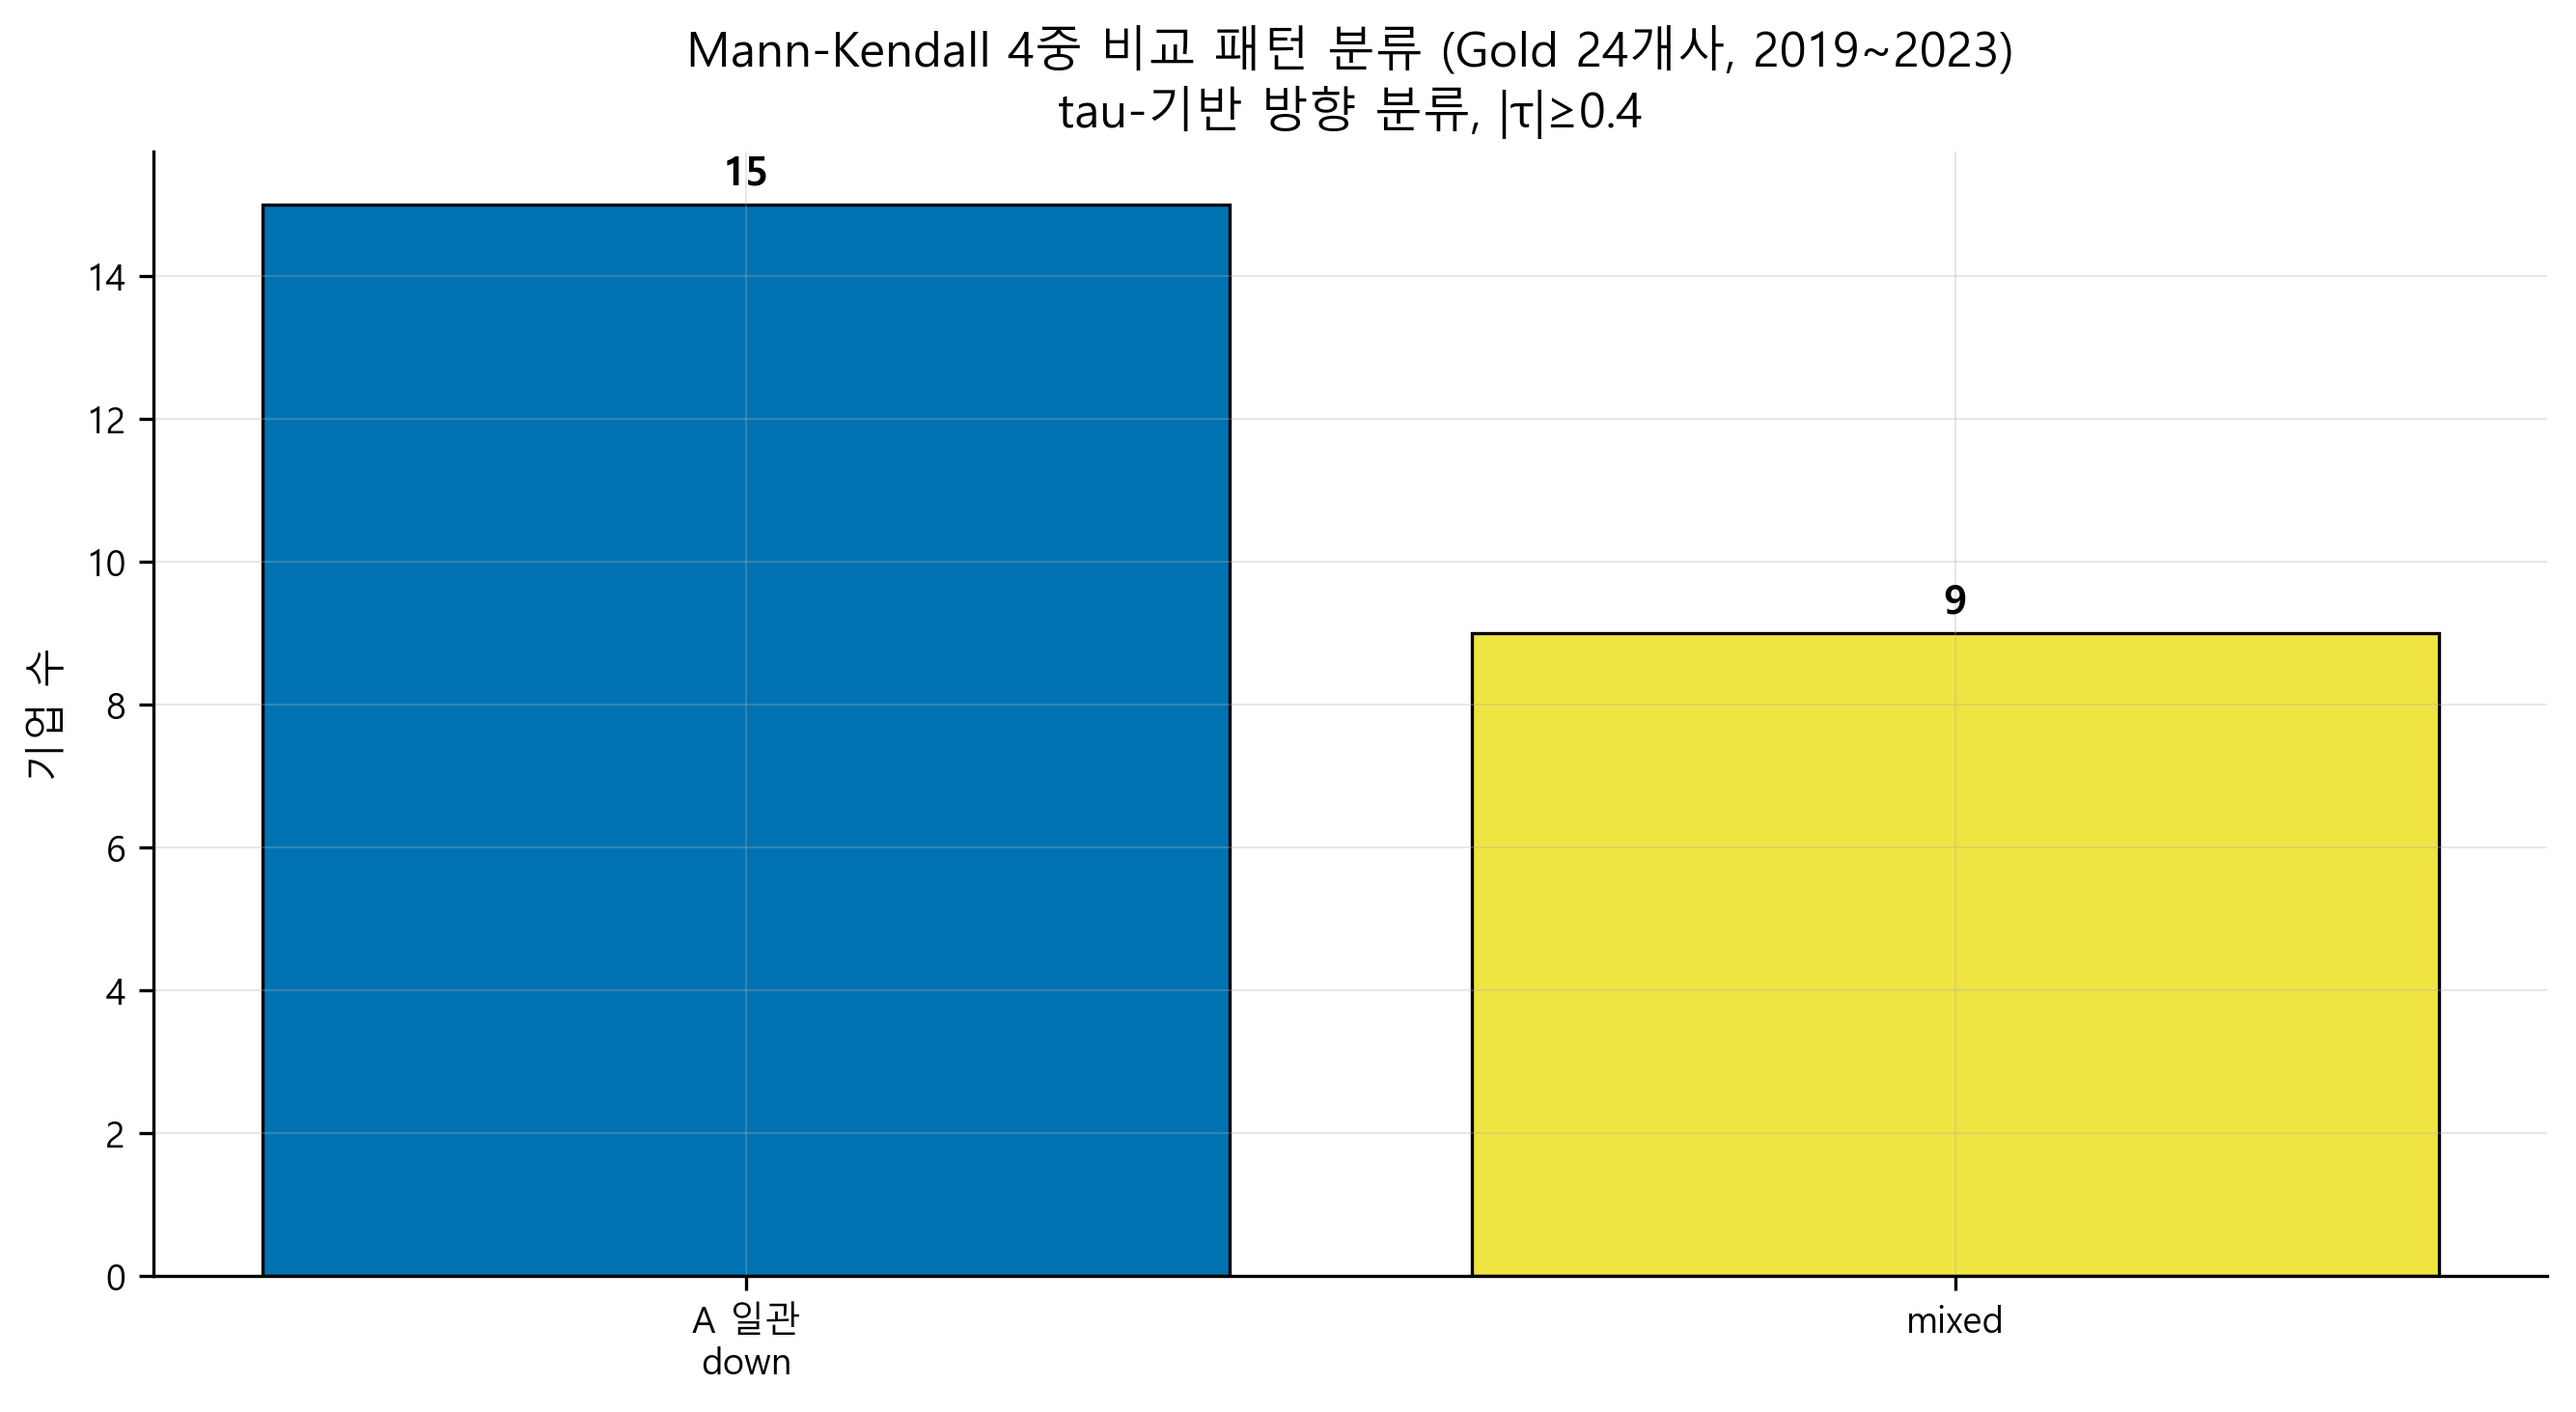
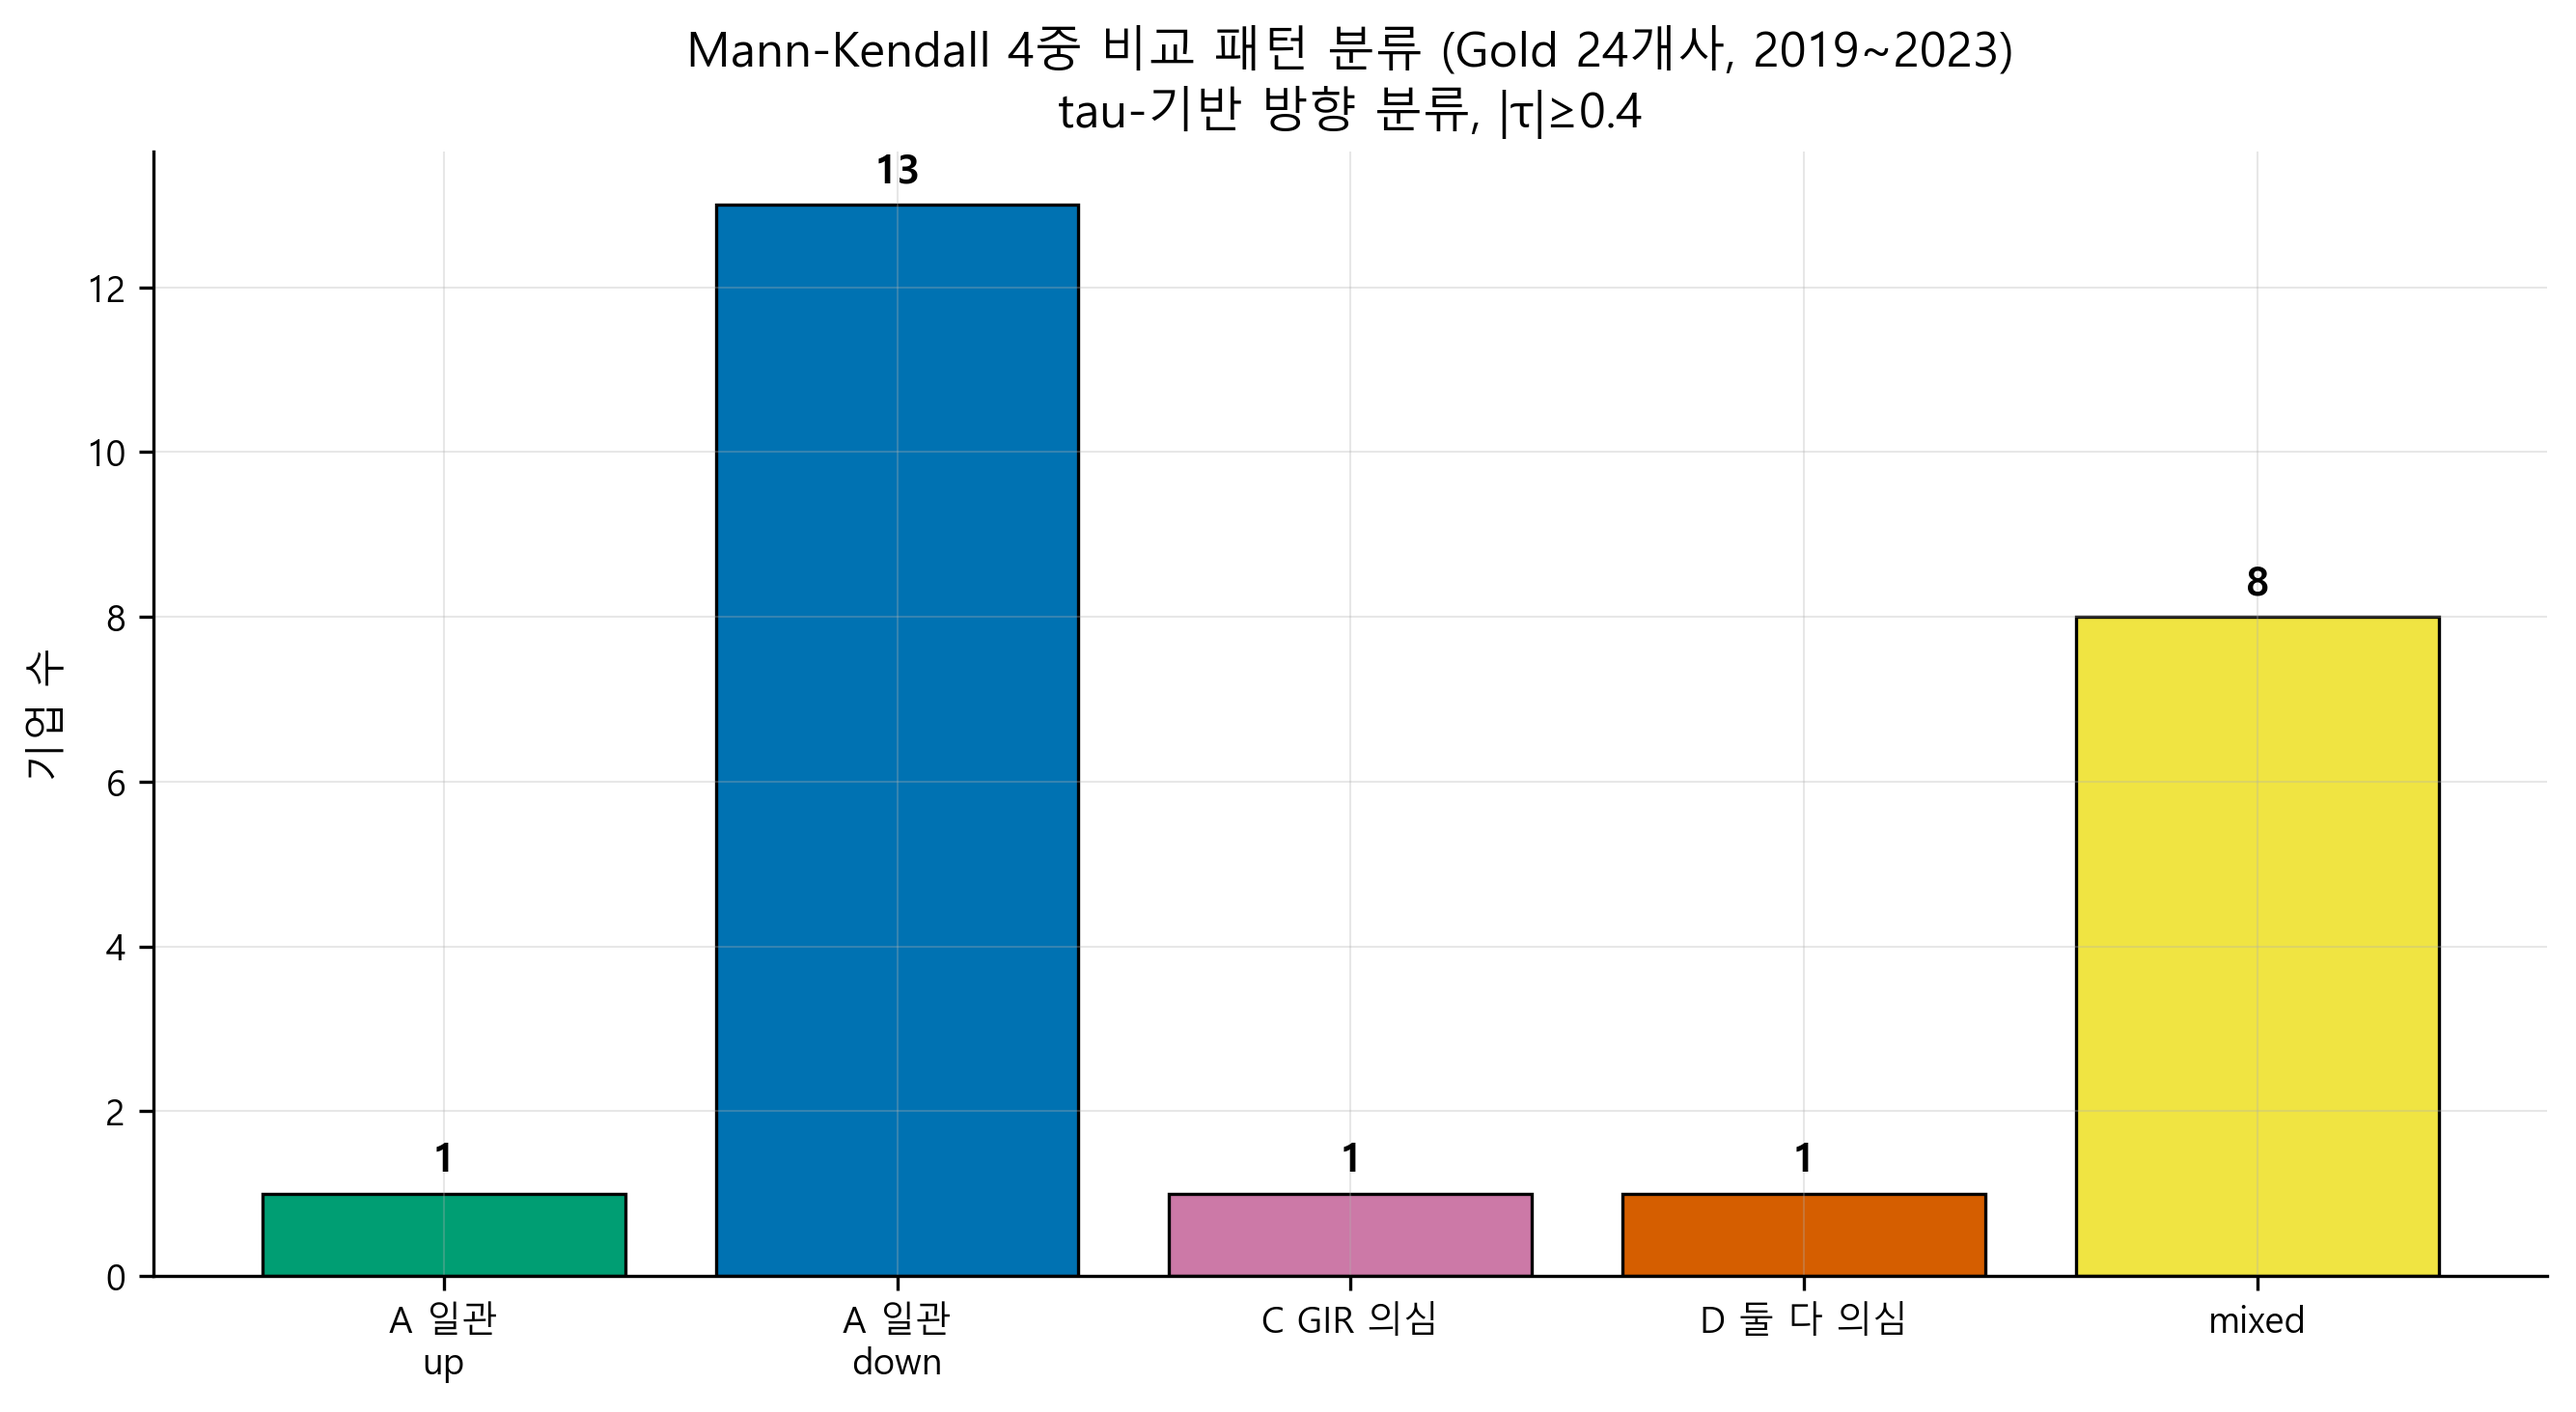
feat: ESG parser complete — 70 PDFs 99% extraction + real pattern findings + panel regression
ESG parser results (71 PDFs input, 70 parsed):
- Scope 1 extraction: 99% success (HIGH 16, MEDIUM 48, LOW 7)
- Fields: Scope 1/2/3, 조직경계, 제3자 검증, 보고기준
- data/interim/esg_reports_parsed.csv (9KB)

Integrated panel v2 (ESG merged):
- 157 rows × 51 cols
- ESG coverage: 73/157 (46%)
- GIR 100%, satellite/ODIAC/ASOS 73% (2019-2023 subset)

Mann-Kendall pattern findings (tau-based, |τ|≥0.4):
- A_consistent_up: 1 (네이버)
- A_consistent_down: 13 (두산, 한화, 현대차, 롯데케미칼, KEPCO, KT, 삼성생명, LGD 등)
- C_gir_suspect: 1 (현대모비스 GIR↓ ESG↑)
- **D_both_suspect: 1 (삼성전자 GIR/ESG↑ but sat/ODIAC↓)** ← 가장 주목할 발견
- mixed: 8 (포스코 GIR↑ sat↓↓ 포함)

Fixed-effects panel regression (N=67, 16 firms):
- ln_gir: -2.30 (p<0.001) — 대기업일수록 괴리율 낮음
- in_kssb_30: -64.67 (p<0.001) — KSSB 대상 평균 -65%p 낮음
- R² within: 0.007 (FE absorbs most variance)
- F-poolability p=0.66 OK

diff --git a/src/analysis/build_integrated_panel.py b/src/analysis/build_integrated_panel.py
@@ -117,10 +117,15 @@ def load_esg_parsed() -> pd.DataFrame:
     path = INT / "esg_reports_parsed.csv"
     if not path.exists():
         return pd.DataFrame(columns=["stock_code", "year"])
-    df = pd.read_csv(path, dtype={"stock_code": str})
+    df = pd.read_csv(path)
     if df.empty:
         return df
-    df["stock_code"] = df["stock_code"].str.zfill(6)
+    # Parser's 'corp_code' column is actually the stock_code folder name
+    if "corp_code" in df.columns and "stock_code" not in df.columns:
+        df = df.rename(columns={"corp_code": "stock_code"})
+    df["stock_code"] = df["stock_code"].astype(str).str.zfill(6)
+    # Filter to HIGH/MEDIUM confidence; LOW noted but not used for merge
+    df = df[df["parse_success"] == True]
     return df
 
 
@@ -175,18 +180,23 @@ def build() -> pd.DataFrame:
     # --- Merge ESG parsed by stock_code × year ---
     if not esg.empty:
         esg_keep = ["stock_code", "year"]
-        for c in ["scope1_tco2eq", "scope1_confidence", "scope2_location",
-                  "scope2_market", "scope3_total", "assurance_provider",
-                  "assurance_standard", "assurance_level", "reporting_standard",
-                  "organizational_boundary"]:
+        col_map = {
+            "scope1_tco2eq": "esg_scope1_tco2eq",
+            "scope1_confidence": "esg_scope1_confidence",
+            "scope2_location_tco2eq": "esg_scope2_location",
+            "scope2_market_tco2eq": "esg_scope2_market",
+            "scope3_present": "esg_scope3_present",
+            "assurance_provider": "assurance_provider",
+            "assurance_standard": "assurance_standard",
+            "assurance_level": "assurance_level",
+            "reporting_standard": "reporting_standard",
+            "organizational_boundary": "organizational_boundary",
+            "third_party_assurance": "third_party_assurance",
+        }
+        for c in col_map.keys():
             if c in esg.columns:
                 esg_keep.append(c)
-        esg_slim = esg[esg_keep].rename(columns={
-            "scope1_tco2eq": "esg_scope1_tco2eq",
-            "scope2_location": "esg_scope2_location",
-            "scope2_market": "esg_scope2_market",
-            "scope3_total": "esg_scope3_total",
-        })
+        esg_slim = esg[esg_keep].rename(columns=col_map)
         gir_gold = gir_gold.merge(esg_slim, on=["stock_code", "year"], how="left")
 
     # --- Compute discrepancy metrics ---

diff --git a/src/analysis/panel_regression.py b/src/analysis/panel_regression.py
@@ -45,21 +45,35 @@ def main() -> None:
     df = df.set_index(["stock_code", "year"])
     df["year_dummy"] = df.index.get_level_values("year")
 
-    # Formula
-    X = df[["ln_gir", "in_kssb_30"]].astype(float)
-    X = X.dropna()
-    y = df.loc[X.index, "disc_pct"].dropna()
-    X = X.loc[y.index]
+    # Align X and y — drop any row with NaN in any required col
+    needed = ["ln_gir", "in_kssb_30", "disc_pct"]
+    data = df[needed].dropna()
+    # Need at least 2 years per firm for entity effects
+    firm_counts = data.groupby(level=0).size()
+    valid_firms = firm_counts[firm_counts >= 2].index
+    data = data[data.index.get_level_values(0).isin(valid_firms)]
 
+    y = data["disc_pct"]
+    X = data[["ln_gir", "in_kssb_30"]].astype(float)
     print(f"Regression N: {len(y)}, firms: {y.index.get_level_values(0).nunique()}")
     try:
-        mod = PanelOLS(y, X, entity_effects=True, time_effects=True)
+        mod = PanelOLS(y, X, entity_effects=True, time_effects=True,
+                       drop_absorbed=True)
         res = mod.fit(cov_type="clustered", cluster_entity=True)
         print(res.summary)
         with open(OUT / "regression_results.txt", "w", encoding="utf-8") as f:
             f.write(str(res.summary))
     except Exception as e:
         print(f"[err] regression failed: {e}")
+        # Fallback: simple OLS without entity effects
+        import statsmodels.api as sm
+        Xc = sm.add_constant(X.reset_index(drop=True))
+        y2 = y.reset_index(drop=True)
+        res = sm.OLS(y2, Xc).fit(cov_type="HC3")
+        print("\n=== Fallback OLS (no FE) ===")
+        print(res.summary())
+        with open(OUT / "regression_results.txt", "w", encoding="utf-8") as f:
+            f.write(str(res.summary()))
 
 
 if __name__ == "__main__":

diff --git a/report/gold24_remaining_manual.md b/report/gold24_remaining_manual.md
@@ -2,7 +2,9 @@
 
 **현황 (2026-04-23)**: 70 PDFs 자동 다운로드 완료 (Gold 23개사 중 17개사 100%, 6개사 부분)
 
-## 🔴 수동 수집 필요 10개 PDF (6개사)
+## 🔴 수동 수집 필요 **13개 PDF** (6개사)
+
+**기업별 필요 개수**: 한화 3 + 두산 4 + 대한항공 2 + 롯데케미칼 2 + 롯데쇼핑 1 + 이마트 1 = **13개**
 
 DART에 URL만 있고 PDF 첨부가 없으며, IR 자동 다운로드 패턴 미발견. 각 IR 사이트에서 직접 다운로드 필요.
 
